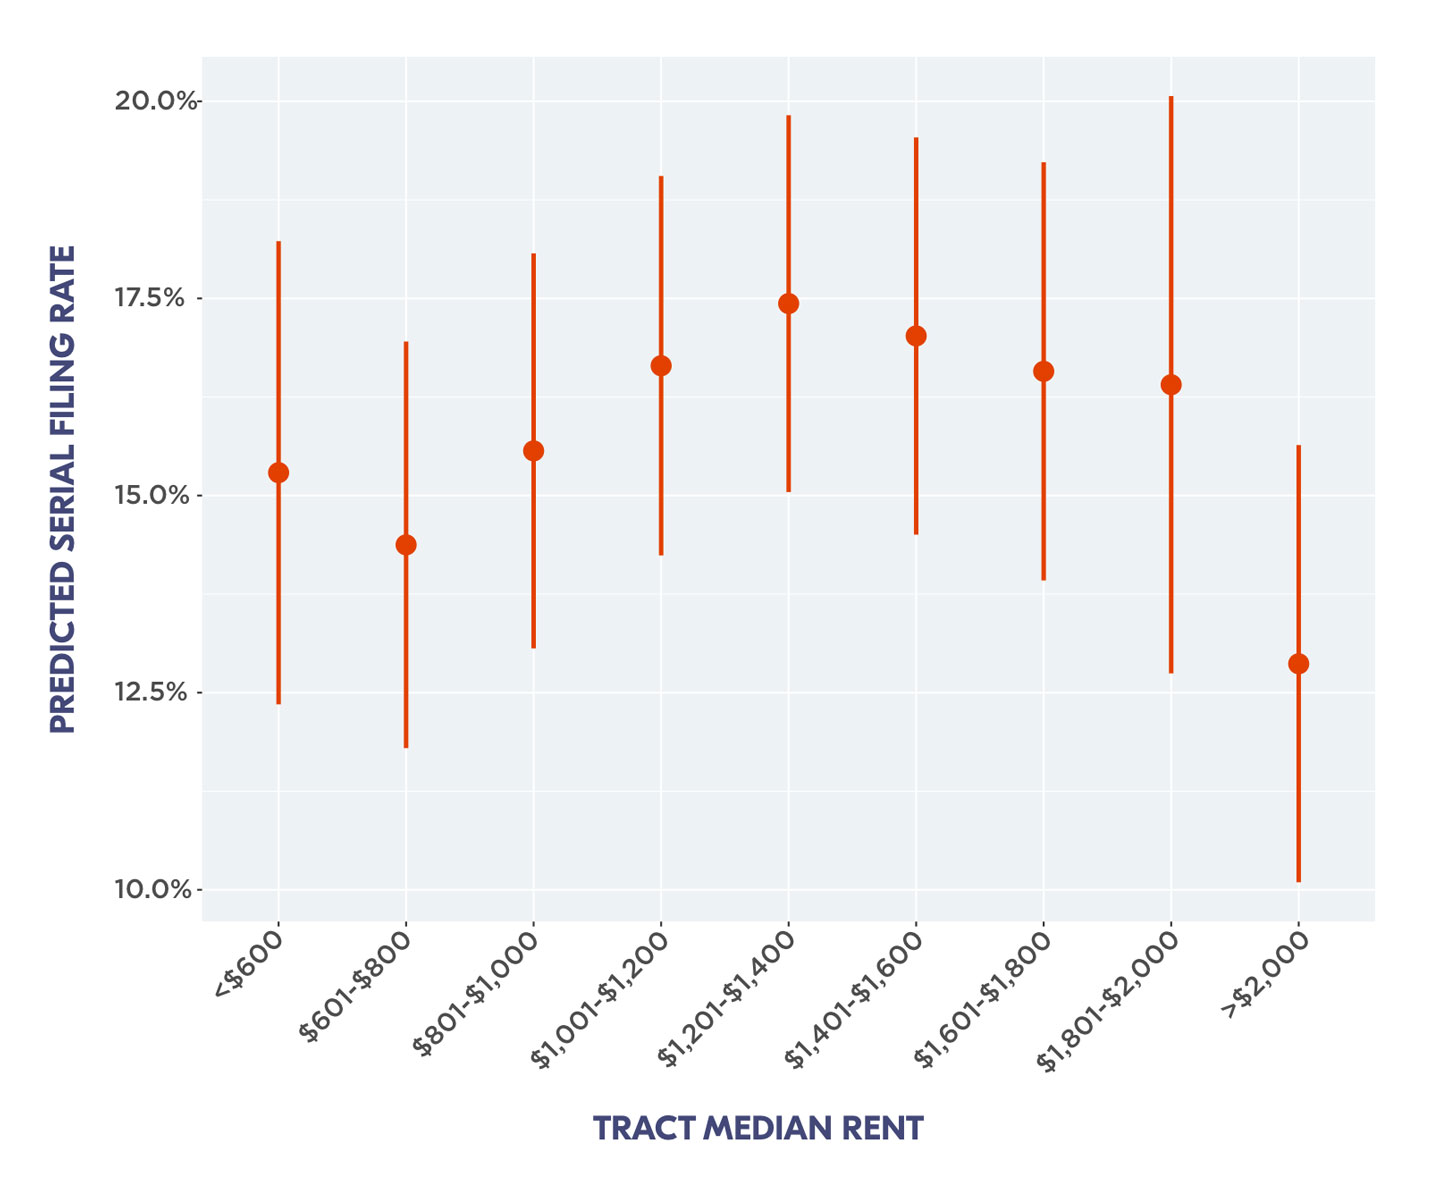
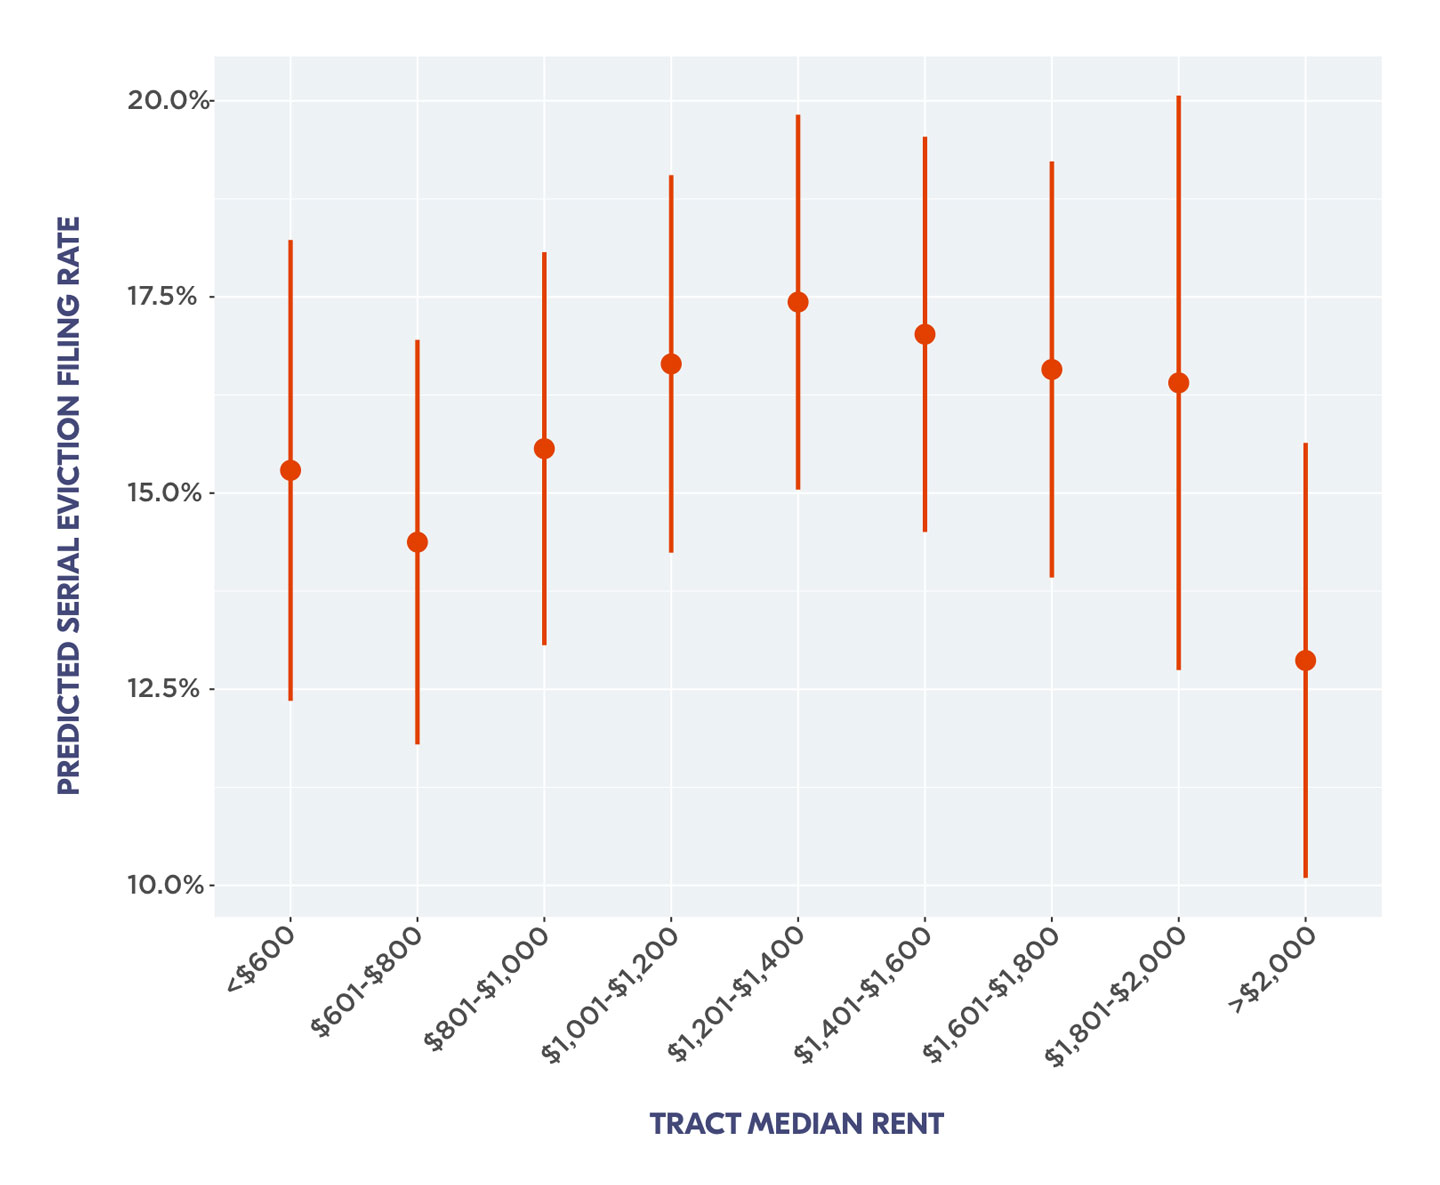
Update blog post and image

diff --git a/content/updates/research/serial-eviction-filings.md b/content/updates/research/serial-eviction-filings.md
@@ -30,9 +30,9 @@ In assembling the Eviction Lab’s national database of evictions, we observed a
 
 What we initially thought might be errors in the data turned out to be a common and devastating reality for many households. We found that nearly one-third of households facing eviction in 2014 were filed against <i>repeatedly</i> at the same address. In the article, we show that eviction is often a drawn-out process that repeatedly affects households. We also show that these serial eviction filings were more common in mid-range rental markets—areas with rents between $1,200 and $2,000 per month—and in counties that made the legal process of eviction fast and cheap. 
 
-<div class="figheader">Figure: Serial eviction filing rates across a range of median rents</div>
+<div class="figheader" style="max-width: 600px;" >Figure: Predicted serial eviction filing rates by neighborhood median rent</div>
 <img class="upscale124 pb-0 pb-xxl-0" src="/images/assets/blog/rent_margin_display.jpg" alt="Charts depicting the predicted serial filing rates for different rent amounts." />
-<div class="figcaption"><p>This figure shows the distribution of predicted serial filing rates across a range of Census tract median rents. Dots represent point estimates, and red vertical lines represent confidence intervals.</p></div>
+<div class="figcaption"><p>This figure shows the distribution of predicted serial eviction filing rates by neighborhood (Census tract) median rent, controlling for other neighborhood characteristics. Dots represent point estimates, and red vertical lines represent 95% confidence intervals.</p></div>
 
 Court records allow us to look at <i>where</i> and <i>how frequently</i> serial eviction filings took place. To understand why they occurred, we interviewed 43 property managers, attorneys, and court officials in two socio-demographically similar cities with very different serial eviction filing rates: Charleston, South Carolina and Mobile, Alabama. 
 
